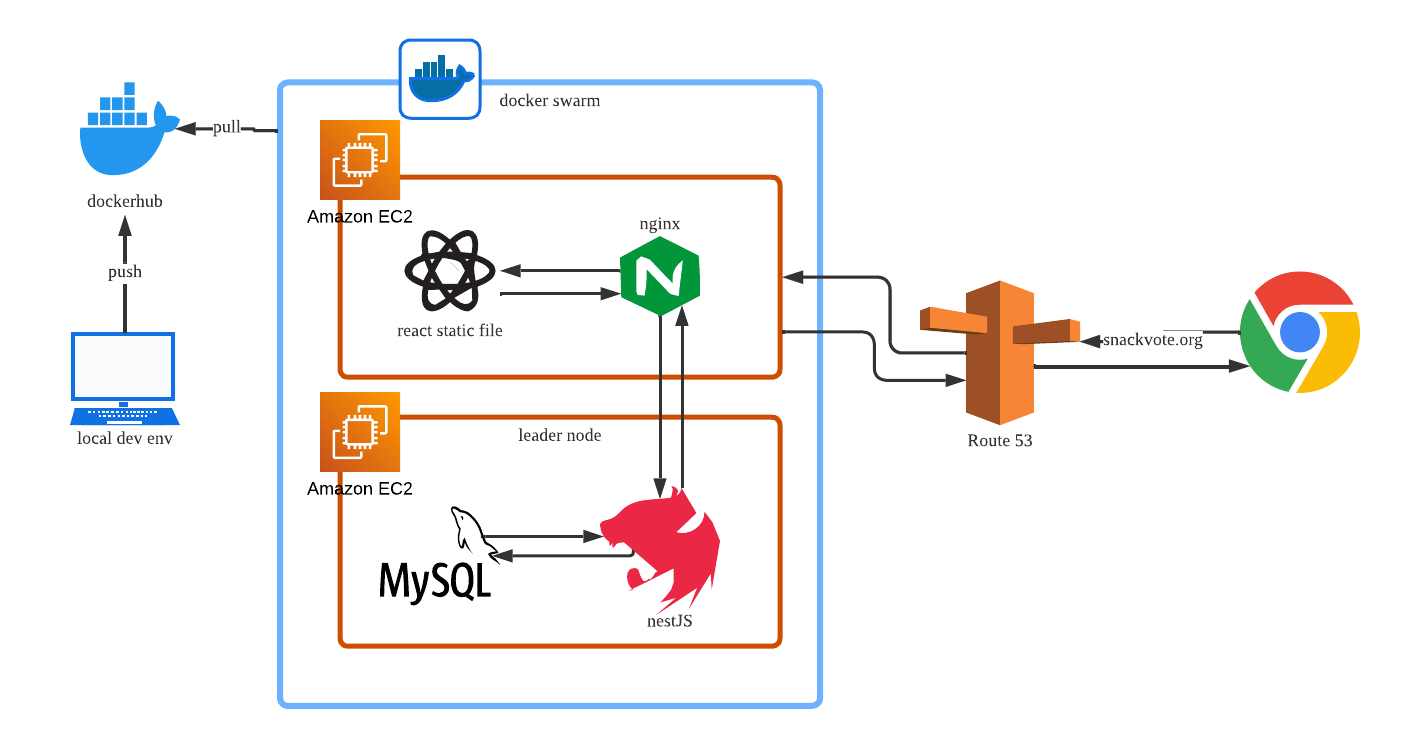
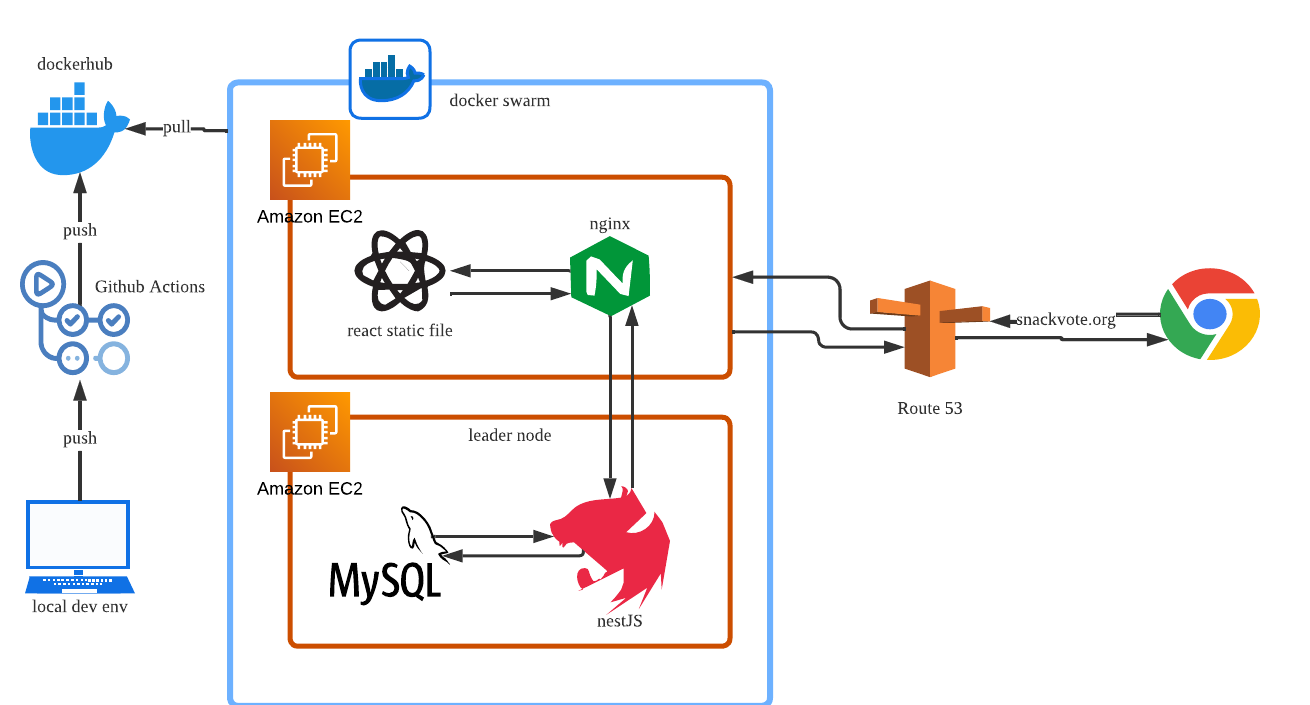
README

Changed region(s): [[0.0, 0.0312, 0.9771, 1.0], [0.0, 0.7801, 0.1221, 0.8738], [0.0305, 0.6865, 0.0916, 0.7177]]

diff --git a/README.md b/README.md
@@ -32,14 +32,14 @@ Architecture
 
 ---
 
-## update
+## updated
 
 모델 및 인기 글 기능 개선
+
+Github Actions 이용 CI/CD 개선
 
 ## Todo
 
 테스트 코드 추가
-
-CI/CD 개선
 
 이미지 관련 기능 추가
